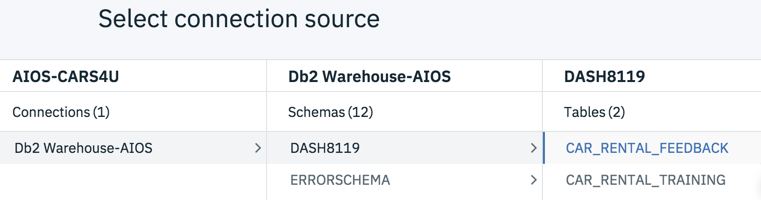
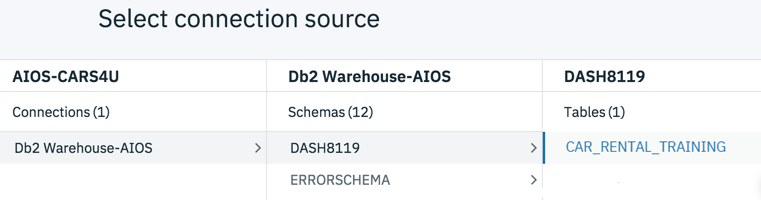
Updated for 10/15 go-live

diff --git a/tutorial.md b/tutorial.md
@@ -10,7 +10,7 @@ takeaways:
 
 copyright:
   years: 2018
-lastupdated: "2018-10-10"
+lastupdated: "2018-10-15"
 
 ---
 
@@ -28,9 +28,11 @@ During the tutorial, you will provision the following Lite (free) {{site.data.ke
 - Machine Learning
 - Apache Spark
 - Object Storage
-- You will also provision the following **paid** {{site.data.keyword.Bluemix_notm}} Services:
-    - Db2 Warehouse
-    - PostgreSQL
+- Db2 Warehouse
+
+You will also provision the following **paid** {{site.data.keyword.Bluemix_notm}} Service:
+
+- PostgreSQL
 
 ## Introduction
 
@@ -43,7 +45,7 @@ In this tutorial, you will:
 
 ## Provision {{site.data.keyword.Bluemix_notm}} Services
 
-Login to your [{{site.data.keyword.Bluemix_notm}} account](https://console.bluemix.net) with your IBM ID.
+Login to your [{{site.data.keyword.Bluemix_notm}} account](https://console.bluemix.net) with your IBM ID. When provisioning services, particularly in the case of Apache Spark, Object Storage, and Db2 Warehouse, verify that your selected organization and space are the same for all services.
 
 ### Provision a Machine Learning service
 
@@ -81,6 +83,8 @@ Login to your [{{site.data.keyword.Bluemix_notm}} account](https://console.bluem
   
 - Give your service a name, choose the Standard plan, and click the **Create** button.
 
+  **Note**: A $200 {{site.data.keyword.Bluemix_notm}} credit can be obtained by converting to a paid account with a credit card.
+
 - Make note of the service credentials for your PostgreSQL instance. Open your existing (or newly-created) PostgreSQL instance and click on **Service credentials** in the left-hand menu. Click the **New credential** button, name your credentials, and click **Add**. Then, click the **View credentials** link next to the set you just created, and copy this JSON object for later use.
 
 ### Provision a paid Db2 Warehouse service
@@ -95,7 +99,7 @@ Login to your [{{site.data.keyword.Bluemix_notm}} account](https://console.bluem
 
 ### Upload training and feedback data to Db2 Warehouse
 
-- Download the [car_rental_feedback_data.csv](https://raw.githubusercontent.com/watson-developer-cloud/doc-tutorial-downloads/master/ai-openscale/car_rental_feedback_data.csv) and [car_rental_training_data.csv](https://raw.githubusercontent.com/watson-developer-cloud/doc-tutorial-downloads/master/ai-openscale/car_rental_training_data.csv) files.
+- Download the [car_rental_training_data.csv](https://raw.githubusercontent.com/watson-developer-cloud/doc-tutorial-downloads/master/ai-openscale/car_rental_training_data.csv) file.
 
 - Open your existing (or newly-created) Db2 Warehouse from the [IBM Cloud console](https://console.bluemix.net), click **Manage** from the left side panel, and then click the green **Open** button.
 
@@ -103,11 +107,11 @@ Login to your [{{site.data.keyword.Bluemix_notm}} account](https://console.bluem
 
   ![Load Menu](images/db2_load.png)
   
-- Browse to the feedback data file, or drag and drop it into the appropriate area on the form. Click **Next**. Select a Schema from the list of load targets; this is usually in a format like `DASH12345`. Then click **New Table** on the right:
+- Browse to the training data file, or drag and drop it into the appropriate area on the form. Click **Next**. Select a Schema from the list of load targets; this is usually in a format like `DASH12345`. Then click **New Table** on the right:
 
   ![New Table](images/new_table.png)
   
-- Name your table CAR\_RENTAL\_FEEDBACK, and click the **Create** button:
+- Name your table CAR\_RENTAL\_TRAINING, and click the **Create** button:
 
   ![New Table Create](images/new_table_create.png)
   
@@ -123,17 +127,7 @@ Login to your [{{site.data.keyword.Bluemix_notm}} account](https://console.bluem
 
   ![Set data type manually](images/data-type-manual.png)
 
-- The feedback data should now be displaying correctly in columns. Click **Next** to continue, and then click **Begin Load** to load the data.
-
-- When the data has finished loading, repeat the same steps to load the training data file, naming it CAR\_RENTAL\_TRAINING.
-
-### Provision {{site.data.keyword.aios_short}}
-
-- Click the **Catalog** link and filter on "OpenScale". Select the tile for {{site.data.keyword.aios_short}}:
-
-  ![AI OpenScale](images/openscale.png)
-  
-- Give your service a name, select the Lite plan, and click **Create**. You will configure {{site.data.keyword.aios_short}} after setting up models for it to monitor.
+- The training data should now be displaying correctly in columns. Click **Next** to continue, and then click **Begin Load** to load the data.
 
 ## Set up a Watson Studio project
 
@@ -179,7 +173,7 @@ Login to your [{{site.data.keyword.Bluemix_notm}} account](https://console.bluem
 
 ### Edit and run the Action Recommendation Spark Notebook
 
-- From the **Assets** tab in your Watson Studio project, click the **Edit** icon next to the `CARS4U-Action-Recommendation-Spark` notebook to edit it. In section 2 and section 4.2, replace the Db2 Warehouse credentials with the ones you created in the previous section, and ensure that the table name for the training data matches the one you created when loading the .CSV files.
+- From the **Assets** tab in your Watson Studio project, click the **Edit** icon next to the `CARS4U-Action-Recommendation-Spark` notebook to edit it. In section 2 and section 4.2, replace the Db2 Warehouse credentials with the ones you created in the previous section.
 
 - In section 4, replace the Watson Machine Learning credentials with the ones you created in the previous section.
 
@@ -193,11 +187,19 @@ Login to your [{{site.data.keyword.Bluemix_notm}} account](https://console.bluem
 
 ## Configure {{site.data.keyword.aios_short}}
 
+### Provision {{site.data.keyword.aios_short}}
+
+- If you have not already provisioned an instance of {{site.data.keyword.aios_short}}, click the **Catalog** link from your {{site.data.keyword.Bluemix_notm}} account, and filter on "OpenScale". Select the tile for {{site.data.keyword.aios_short}}:
+
+  ![AI OpenScale](images/openscale.png)
+  
+- Give your service a name, select the Lite plan, and click **Create**.
+
+- Select the **Manage** tab and click the **Get Started** button. The {{site.data.keyword.aios_full}} Getting Started page opens; click **Begin**.
+
 ### Connect {{site.data.keyword.aios_short}} to your machine learning model
 
 Now that the machine learning model has been deployed, you can configure {{site.data.keyword.aios_short}} to ensure trust and transparency with your models.
-
-- From the [{{site.data.keyword.Bluemix_notm}} Dashboard](https://console.bluemix.net/dashboard/apps), scroll down to the **Services** section and click on the instance of {{site.data.keyword.aios_short}} you provisioned. Select the **Manage** tab and click the **Get Started** button. The {{site.data.keyword.aios_full}} Getting Started page opens; click **Begin**.
 
 - {{site.data.keyword.aios_short}} will ask for a connection to a PostgreSQL deployment. Select the one you created earlier from the **Database** dropdown, and choose the **public** schema:
 
@@ -254,7 +256,7 @@ Now that the machine learning model has been deployed, you can configure {{site.
 
   ![Multiclass](images/multiclass.png)
   
-- Next, set the accuracy threshold. Click **Next** to leave it at the default 80%. Use the slider to adjust the minimum sample size to 400, then click  **Next**.
+- Next, set the accuracy threshold. Click **Next** to leave it at the default 80%. Use the slider to adjust the minimum sample size to 40, then click  **Next**.
 
 - You can review your choices before clicking **Save** to finalize them.
 
@@ -271,9 +273,9 @@ Now that the machine learning model has been deployed, you can configure {{site.
 
   ![Explainability Schema](images/explain_schema.png)
 
---->
-
 - Next, select the **Action** column, as it contains the prediction values from the machine learning service, and click **Next**.
+
+--->
 
 - All of the data columns are inputs to the model. Select all inputs and click **Next**:
 
@@ -293,11 +295,11 @@ Now that the machine learning model has been deployed, you can configure {{site.
 
   ![Add Connected Asset](images/add_connected_assets.png)
   
-- Click the **Select source** link and choose your Db2 Warehouse instance, schema, and the CAR\_RENTAL\_FEEDBACK table, then click **Select**.
+- Click the **Select source** link and choose your Db2 Warehouse instance, schema, and the CAR\_RENTAL\_TRAINING table, then click **Select**.
   
   ![Connection Source](images/connection_source.png)
 
-- Give your asset a name, then click **Create**. Repeat the same steps to add the CAR\_RENTAL\_TRAINING table as well.
+- Give your asset a name, then click **Create**.
 
 - Now add the PostgreSQL database. In your Watson Studio project, click **Add to project** and select **Connection**.
 
@@ -337,31 +339,20 @@ Now that the machine learning model has been deployed, you can configure {{site.
 
 - To enable monitoring for accuracy, you must retrain and redeploy your model with feedback data; no accuracy data will appear in the dashboard until this is done. You can generate these requests all at once by feeding sample feedback data to the model for scoring.
 
-- To do this, you will need your {{site.data.keyword.aios_short}} credentials. Perform the following steps using the {{site.data.keyword.Bluemix_notm}} [command console](https://console.bluemix.net/docs/cli/index.html#overview):
+- Download the [car_rental_feedback_data.csv](https://raw.githubusercontent.com/watson-developer-cloud/doc-tutorial-downloads/master/ai-openscale/car_rental_feedback_data.csv) file.
 
-    - Get your API key
+- In Watson Studio, select the **Assets** tab, then scroll down and select "CARS4U - Action Recommendation Model" under the **Watson Machine Learning** section.
 
-      ```curl
-      bx login --sso
-      bx iam api-key-create 'my_key'
-      ```
-    - Get your {{site.data.keyword.aios_short}} instance ID
+- Select the **Evaluation** tab. Scroll down to the "Performance Monitoring" section, and select **Edit configuration**.
 
-      ```curl
-      bx resource service-instance '<Your_AI_OpenScale_instance_name>'
-      ```
-      **Note**: If you are using the {{site.data.keyword.Bluemix_notm}} command console on Windows, replace the single quotes (') in the above commands with double quotes (").
+- Set the value for both "Auto retrain" and "Auto deploy" to `Always`, and click **Save**.
 
-- Download [this sample feedback data iPython notebook](https://raw.githubusercontent.com/watson-developer-cloud/doc-tutorial-downloads/master/ai-openscale/CARS4U-Sample-Feedback-Generation.ipynb) to your machine, and then add it to your Watson Studio project by clicking the **New notebook** link from the **Notebook** section of the **Assets** tab.
-
-- Select **From file**, choose the "CARS4U-Sample-Feedback-Generation.ipynb" file, and select the **Default Python 3.5 Free** runtime from the dropdown. Click **Create Notebook**.
-
-- Once the notebook has opened, update the fourth code cell with your {{site.data.keyword.aios_short}} credentials. Proceed through the notebook and, for all items marked as **ACTION:**, enter the appropriate data for your {{site.data.keyword.Bluemix_notm}} services and credentials.
-
-- Once you have entered all your services and credentials, your notebook is ready to run. Click the **Kernel** menu item, and select **Restart and Run All** from the menu:
-
-  ![Restart and Run](images/restart_and_run.png)
+  ![Restart and Run](images/auto-retrain-deploy.png)
   
+- Now, click the **Add feedback data** button, and select the car_rental_feedback_data.csv you downloaded. Click the **New evaluation** button when prompted.
+
+  ![Restart and Run](images/new-eval.png)
+
   This will retrain and provide feedback data to your model.
 
 ## View the explainability for a model transaction

diff --git a/creds.md b/creds.md
@@ -1,0 +1,77 @@
+---
+
+copyright:
+  years: 2018
+lastupdated: "2018-10-15"
+
+---
+
+{:shortdesc: .shortdesc}
+{:new_window: target="_blank"}
+{:tip: .tip}
+{:pre: .pre}
+{:codeblock: .codeblock}
+{:screen: .screen}
+{:javascript: .ph data-hd-programlang='javascript'}
+{:java: .ph data-hd-programlang='java'}
+{:python: .ph data-hd-programlang='python'}
+{:swift: .ph data-hd-programlang='swift'}
+
+# Creating credentials
+
+To create credentials for {{site.data.keyword.aios_short}}, complete the following steps using the {{site.data.keyword.Bluemix_notm}} [command console](https://console.bluemix.net/docs/cli/index.html#overview):
+
+- Get your API key
+
+    ```curl
+    bx login --sso
+    bx iam api-key-create 'my_key'
+    ```
+
+    You will see information output like the following:
+
+    ```bash
+    Name         my_key
+    Created At   2018-10-09T14:04+0000
+    API Key      Tg4Gxxxxxxxxxxxxxxxxx_xxxxxxxxxxxxxxxxxQU-nE
+    Locked       false
+    UUID         ApiKey-xxxxxxxxx-afd7-xxxxx-b0e1-xxxxxxxxxxx
+    ```
+- Verify the Resource Group you are using in your {{site.data.keyword.Bluemix_notm}} account.
+
+  ![Resource Group in Cloud](images/cloud-resource.png)
+
+  If you are not using the `Default` resource group, then run the following command to get your credential for {{site.data.keyword.aios_short}}:
+
+   ```curl
+   bx target -g myResourceGroup
+   ```
+
+  where `myResourceGroup` is the name of the resource group associated with your {{site.data.keyword.aios_short}} instance.
+
+- Get your {{site.data.keyword.aios_short}} instance ID
+
+    ```curl
+    bx resource service-instance '<Your_AI_OpenScale_instance_name>'
+    ```
+    **Note**: If you are using the {{site.data.keyword.Bluemix_notm}} command console on Windows, replace the single quotes (') in the above commands with double quotes (").
+
+    You will see information output like the following:
+
+    ```bash
+    Name:                  AI OpenScale-my_instance
+    ID:                    crn:v1:bluemix:public:aiopenscale:us-south:a/c2f2xxxxxxxxxxxx867::
+    GUID:                  03daxxxx-xxxx-xxxx-xxxx-xxxxxxxx38a7
+    Location:              us-south
+    Service Name:          aiopenscale
+    Service Plan Name:     lite
+    Resource Group Name:   Default
+    State:                 active
+    Type:                  service_instance
+    Sub Type:
+    Tags:
+    Created at:            2018-09-17T13:58:43Z
+    Updated at:
+    ```
+
+    The `GUID` value is your {{site.data.keyword.aios_short}} instance ID.

diff --git a/getting-started.md b/getting-started.md
@@ -2,7 +2,7 @@
 
 copyright:
   years: 2018
-lastupdated: "2018-10-04"
+lastupdated: "2018-10-15"
 
 ---
 
@@ -24,15 +24,15 @@ This topic provides reference material and first steps to help you get started u
 
 Experience the look and feel of {{site.data.keyword.aios_short}} by viewing an [interactive demonstration](https://www.ibm.com/cloud/garage/demo/try-ai-openscale).
 
-## Complete the tutorial (recommended)
+## Complete the tutorial
 {: #gs-tutorial}
 
 A full list of prerequisites, along with step-by-step instructions for provisioning {{site.data.keyword.Bluemix_notm}} machine learning and data services, creating and deploying machine learning models, and configuring the new {{site.data.keyword.aios_full}} service to monitor your models for trust and transparency, can be [found in the tutorial](/docs/services/ai-openscale/tutorial.html).
 
-## Manually configure {{site.data.keyword.aios_short}}
+## Overview of configuration steps {{site.data.keyword.aios_short}}
 {: #gs-manual}
 
-The following steps outline the process that is required to configure {{site.data.keyword.aios_short}} using your own data and models. It is recommended that you [complete the tutorial](/docs/services/ai-openscale/tutorial.html) to become familiar with the process. ***At a minimum***, you will need:
+The following is an outline of the process that is required to configure {{site.data.keyword.aios_short}} using your own data and models. [Complete the tutorial](/docs/services/ai-openscale/tutorial.html) to become familiar with the process. ***At a minimum***, you will need:
 
 1.  An {{site.data.keyword.aios_short}} service instance.
 
@@ -71,7 +71,7 @@ The following steps outline the process that is required to configure {{site.dat
 ## Step 1: Specify your database
 {: #gs-config-db}
 
-Your first step in the {{site.data.keyword.aios_short}} tool is to specify a database. This is the database that {{site.data.keyword.aios_short}} uses to store your model deployment output, deployment feedback, and retraining data.
+Your first step in the {{site.data.keyword.aios_short}} tool is to specify a database. This is the database that {{site.data.keyword.aios_short}} uses to store payload, feedback, and measurement data.
 
 You will also select a schema for your database. A schema is a named collection of tables in the database.
 
